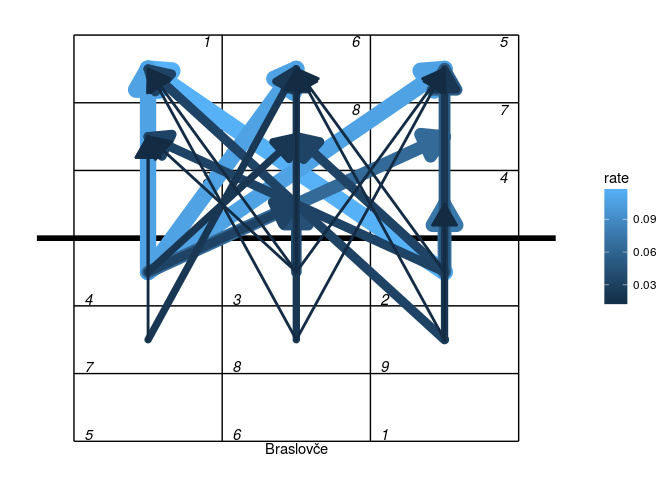
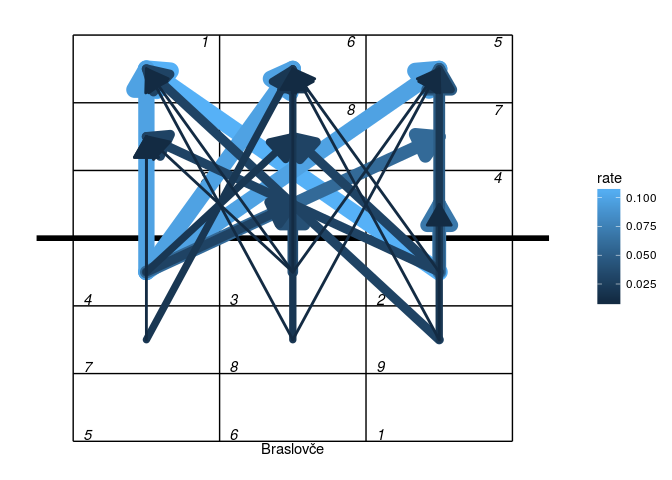
updated README [ci skip]

diff --git a/README.md b/README.md
@@ -89,18 +89,14 @@ Or using arrows to show the starting and ending zones of attacks:
 
 ``` r
 ## tabulate attacks by starting and ending zone
-attack_rate <- as.data.frame(xtabs(~start_zone+end_zone,data=subset(plays(x),skill=="Attack" &
-  team==x$meta$teams$team[1])),stringsAsFactors=FALSE)
-attack_rate$start_zone <- as.numeric(attack_rate$start_zone)
-attack_rate$end_zone <- as.numeric(attack_rate$end_zone)
-attack_rate$rate <- attack_rate$Freq/sum(attack_rate$Freq)
-attack_rate <- attack_rate[attack_rate$Freq>0,]
-## starting x,y coordinates
-attack_rate <- cbind(attack_rate,ggxy(attack_rate$start_zone,end="lower",xynames=c("sx","sy")))
-## ending x,y coordinates
-attack_rate <- cbind(attack_rate,ggxy(attack_rate$end_zone,end="upper",xynames=c("ex","ey")))
-## plot in reverse order so largest arrows are on the bottom
-attack_rate <- attack_rate[order(attack_rate$rate,decreasing=TRUE),]
+attack_rate <- plays(x) %>%
+    dplyr::filter(skill=="Attack" & team==x$meta$teams$team[1]) %>% ## attacks from team 1
+    group_by(start_zone,end_zone) %>% summarize(rate=n()) %>% ## count attacks by start, end zone
+    ungroup %>% mutate(rate=rate/sum(rate)) %>% ## convert counts to rates
+    dplyr::filter(!is.na(start_zone) & !is.na(end_zone)) %>% ## drop missing-zone-info-rows
+    bind_cols(ggxy(.$start_zone,end="lower",xynames=c("sx","sy"))) %>% ## start_zone x,y coords
+    bind_cols(ggxy(.$end_zone,end="upper",xynames=c("ex","ey"))) %>% ## end_zone x,y coords
+    arrange(desc(rate)) ## plot in reverse order so largest arrows are on the bottom
 
 p <- ggplot(attack_rate,aes(x,y,col=rate))+ggcourt(labels=c(x$meta$teams$team[1],""))
 for (n in 1:nrow(attack_rate))
